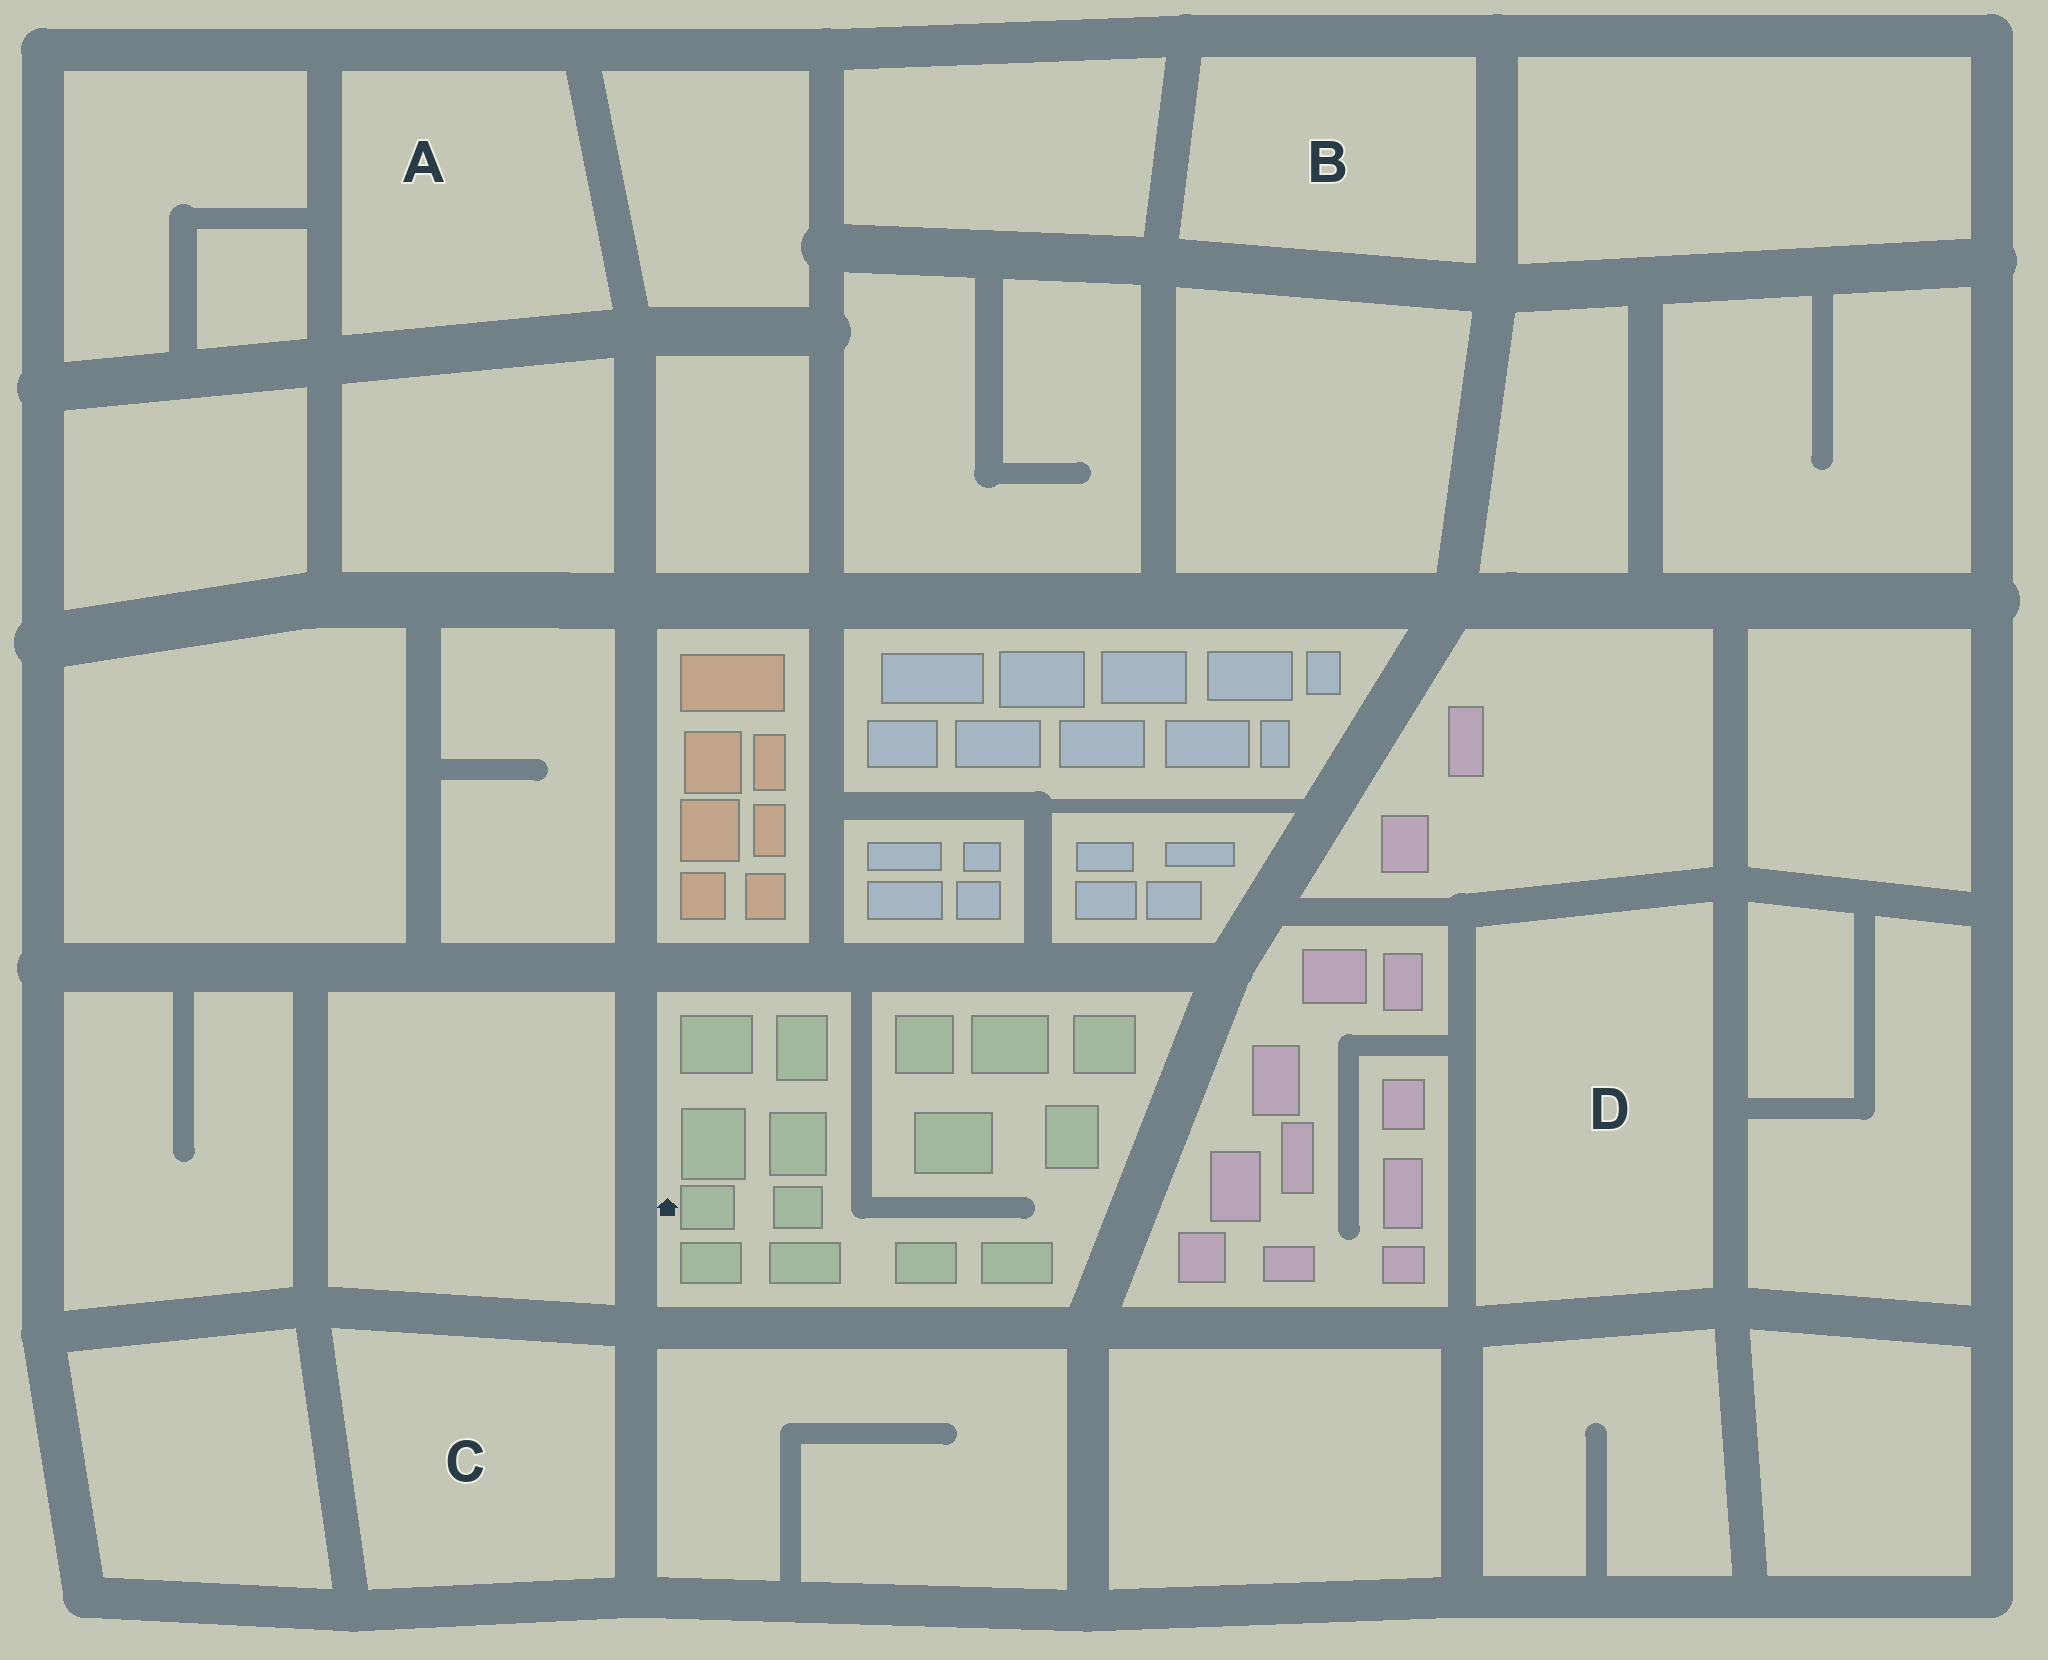
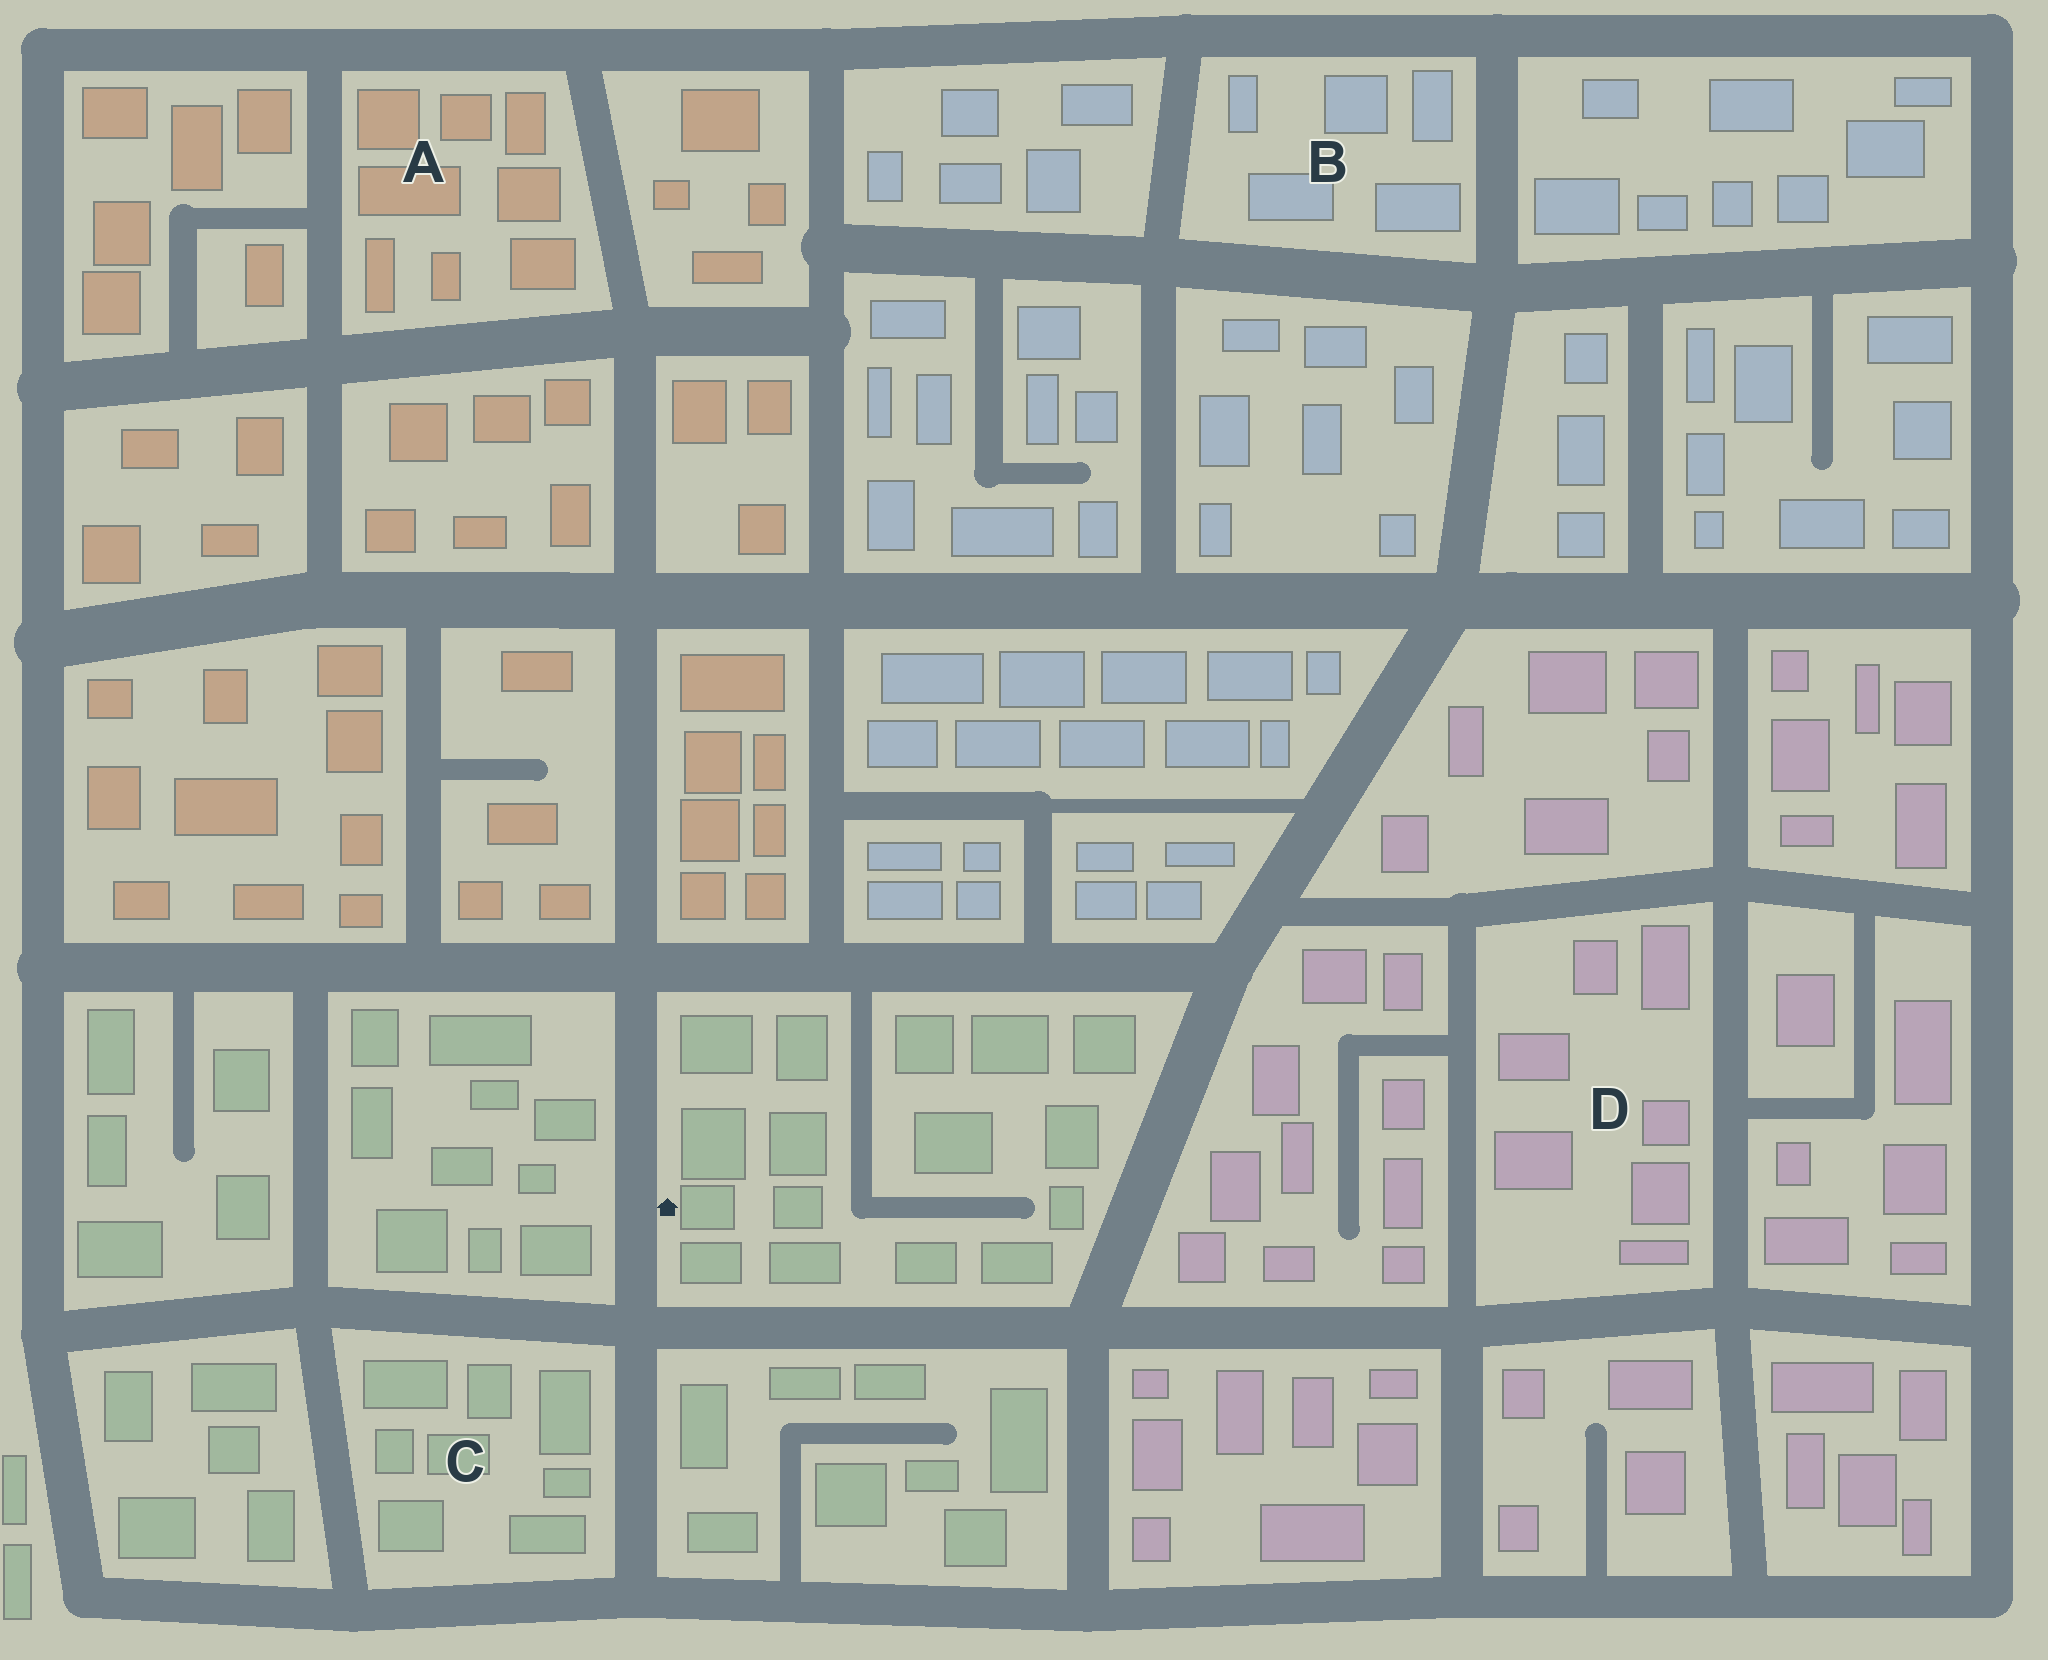
맵 넓히기: 건물 포함 지도, far clip 250, 행인 110·차량 50

diff --git a/Tools/build_myeongji_routes.py b/Tools/build_myeongji_routes.py
@@ -102,6 +102,8 @@ def main():
  zone_names=['A 정문 앞','B 북쪽 상가','C 남쪽 주택','D 동쪽 골목']
  if args.expanded:
   layout=read_json('layout_expanded.json');anchors=read_json('anchors_expanded.json');zones=read_json('zones.json')
+  # The map shows every building; the road graph does not depend on them.
+  layout['lots']=layout['lots']+[[l['id'],l['sourceBuildingId'],l['x'],l['z'],l['width'],l['depth'],0,l['rotationDeg']] for l in read_json('lots_expanded.json')['lots']]
   polygons={z['id']:z['polygon'] for z in zones['zones']}
   def zone_of(ident,x,z):
    return next((k for k,p in polygons.items() if inside(p,x,z)),original_zone(ident,x,z))
